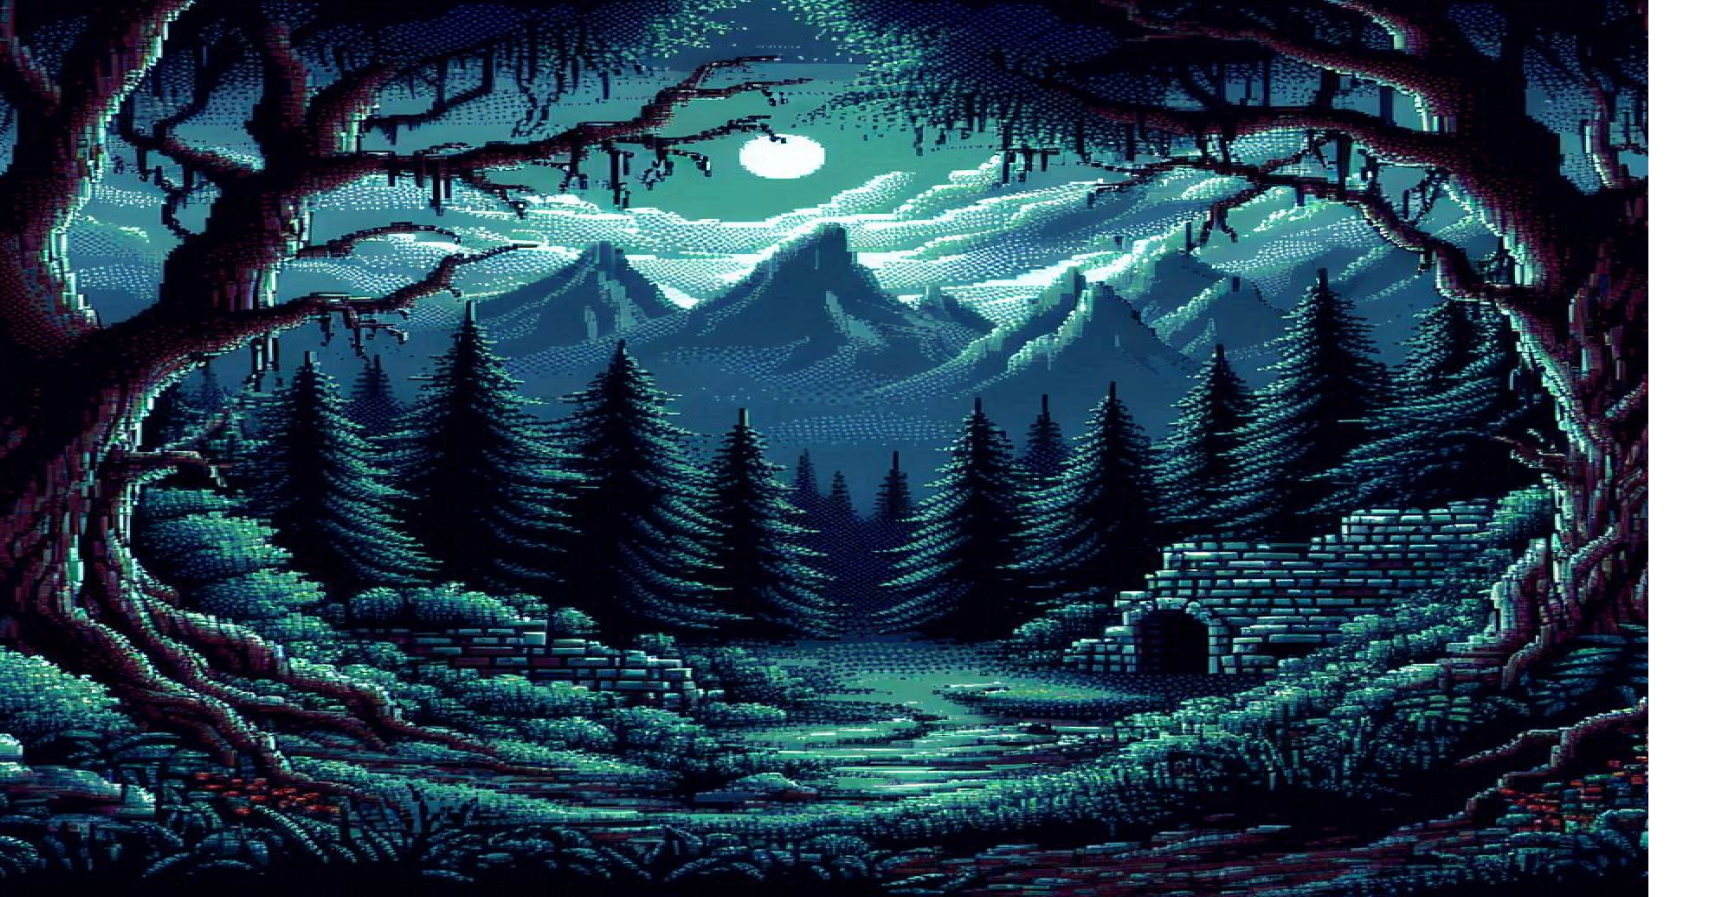
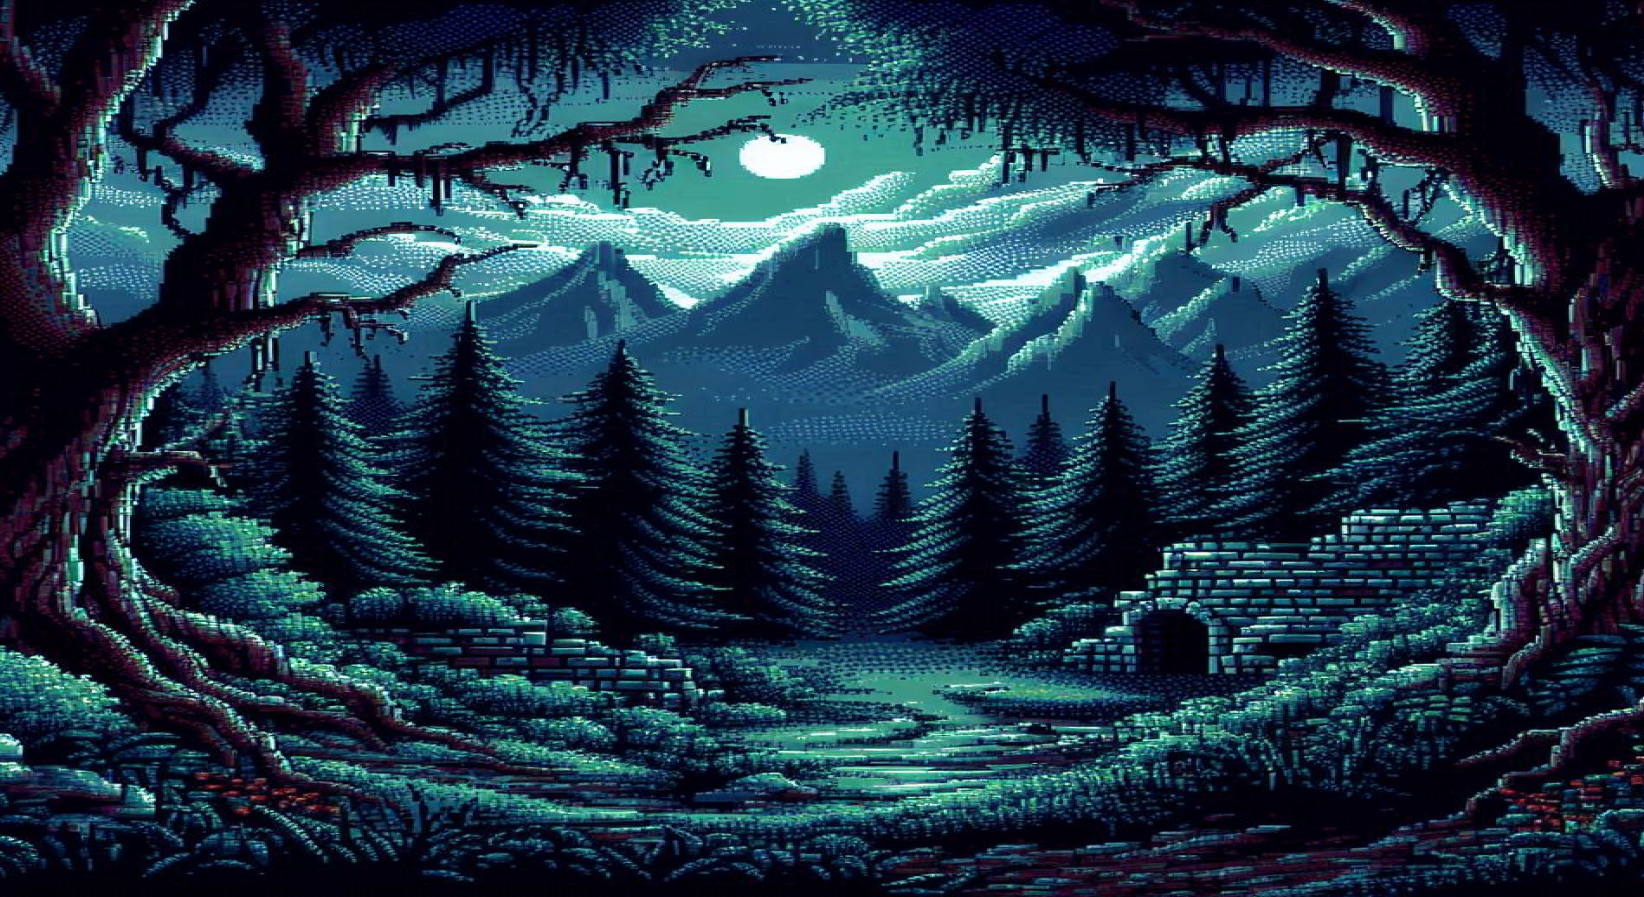
kuvat css

diff --git a/tc-dungeonhelper/src/app/enctable/enctable.component.css b/tc-dungeonhelper/src/app/enctable/enctable.component.css
@@ -1,9 +1,11 @@
+@import "@angular/material/prebuilt-themes/magenta-violet.css";
+
 .roll {
   background: url("/assets/Roll_dungeon.png") no-repeat center center;
   background-size: contain;
   border: none;
-  width: 120px;
-  height: 120px;
+  width: 150px;
+  height: 150px;
   cursor: pointer;
 }
 
@@ -69,9 +71,11 @@
 
 /* Modal styles */
 .modal {
+  background-color: #c5231d;
   display: flex;
   flex-direction: column;
-  margin-left: 10px; 
+
+  padding: 10px;
 }
 
 .weight-buttons button {
@@ -84,67 +88,30 @@
   background-color: #C5231D;
   color: black;
 }
-
-
-
-.item-number,
-.item-name {
-  flex: 1;
-  text-align: left;
-}
-.item-wight,
-.item-percent{
-color: aquamarine;
-flex: 1;
-padding: 10px;
-text-align: right;
-
-}
-
-.even-item {
-  background-color: #222222;
-}
-
-.odd-item {
-  background-color: #000000;
+.button-container {
+  display: flex;
   justify-content: center;
   align-items: center;
-  position: fixed;
-  z-index: 1;
-  left: 0;
-  top: 0;
-  width: 100%;
-  height: 100%;
-  overflow: auto;
-  background-color: rgba(0, 0, 0, 0.4);
+  gap: 50px;
 }
 
-/* Modal Content Box */
-.modal-content {
-  background-color: #fefefe;
-  padding: 20px;
-  border: 1px solid #888;
-  width: 40%;
-  box-shadow: 0 4px 8px rgba(0, 0, 0, 0.2);
-  border-radius: 10px;
+.dice-container {
+  display: flex;
+  flex-direction: column; /* Arrange button and text vertically */
+  align-items: center;    /* Center the button and text */
 }
 
-/* Close Button */
-.close {
-  color: #aaa;
-  float: right;
-  font-size: 28px;
-  font-weight: bold;
+.noppa {
+  background: url(../../../public/assets/noppa-ikoni-tyhja.png) no-repeat center center;
+  background-size: contain;
+  border: none;
+  width: 70px;
+  height: 70px;
 }
 
-.close:hover,
-.close:focus {
-  color: #000;
-  text-decoration: none;
-  cursor: pointer;
-}
-
-.encounter-item:hover {
-  border-bottom: groove 5px #C5231D;
+p {
   
+
+  font-size: 20px;
+  text-align: center;
 }

diff --git a/tc-dungeonhelper/src/app/enctable/enctable.component.html b/tc-dungeonhelper/src/app/enctable/enctable.component.html
@@ -1,7 +1,7 @@
 <!--Näytetään encounterit jos filteredEncounters onnistuu-->
 <div *ngIf="filteredEncounters"></div>
 <!--Muokkaus painike, sitä kun painetaan pystyy muokkaamaan nimeä, kuvausta, painoarvoja. Kun painiketta ei ole vielä painettu, näyttää "Edit", painaessa muuttuu "Quit editing"iksi-->
-<button class="edit" (click)="toggleEditMode()">{{ isEditing ? 'Quit editing' : 'Edit' }}</button>
+
 <!--Näytetään biomekohtaiset encounterit-->
 <h3>{{ filteredEncounters.biome }}</h3>
 <div class="encounter-container">
@@ -37,12 +37,24 @@
 
   </div>
 
-  <div>
-    <button [disabled]="isEditing" class="roll" (click)="rollTable()"></button>
+  <div class="button-container">
+    <div class="dice-container">
+      <button class="noppa" (click)="toggleEditMode()"></button>
+      <p>{{ isEditing ? 'Quit editing' : 'edit' }}</p>
+    </div>
+  
+    <div class="dice-container">
+      <button [disabled]="isEditing" class="roll" (click)="rollTable()"></button>
+    </div>
+  
+    <div class="dice-container">
+      <button class="noppa" [disabled]="isEditing" (click)="openAddEncounterModal()"></button>
+      <p>Add New</p>
+    </div>
   </div>
 
   <!-- Button to open the modal -->
-  <button [disabled]="isEditing" (click)="openAddEncounterModal()">Add New Encounter</button>
+
 
   <!-- The Modal -->
   <div class="modal" *ngIf="showAddEncounterModal">

diff --git a/tc-dungeonhelper/src/app/app.routes.ts b/tc-dungeonhelper/src/app/app.routes.ts
@@ -1,18 +1,17 @@
 import { Routes } from '@angular/router';
 
-import { DashboardComponent } from './dashboard/dashboard.component';
+
 
 import { EnctableComponent } from './enctable/enctable.component';
 import { RetablesComponent } from './retables/retables.component';
 
 import { MerchantsComponent } from './merchants/merchants.component';
+import { AppComponent } from './app.component';
 
 export const routes: Routes = [
   { path: '', redirectTo: '/app', pathMatch: 'full' },
-  { path: 'app', component: DashboardComponent },
-  { path: 'retables', component: RetablesComponent },
 
-  { path: 'dashboard', component: DashboardComponent },
+  { path: 'retables', component: RetablesComponent },
 
   { path: 'biome/:biome', component: EnctableComponent },
 

diff --git a/tc-dungeonhelper/src/app/navbar/navbar.component.ts b/tc-dungeonhelper/src/app/navbar/navbar.component.ts
@@ -2,13 +2,12 @@ import { Component } from '@angular/core';
 import { RouterModule, RouterOutlet } from '@angular/router';
 import { RetablesComponent } from '../retables/retables.component';
 import { MerchantsComponent } from '../merchants/merchants.component';
-import { DashboardComponent } from '../dashboard/dashboard.component';
 import { MatButtonModule } from '@angular/material/button';
 
 @Component({
   selector: 'app-navbar',
   standalone: true,
-  imports: [RouterOutlet, RetablesComponent, RouterModule,MerchantsComponent, DashboardComponent, MatButtonModule],
+  imports: [RouterOutlet, RetablesComponent, RouterModule,MerchantsComponent, MatButtonModule],
   templateUrl: './navbar.component.html',
   styleUrl: './navbar.component.css',
 })

diff --git a/tc-dungeonhelper/src/app/enctable/enctable.component.ts b/tc-dungeonhelper/src/app/enctable/enctable.component.ts
@@ -16,10 +16,12 @@ import { EncounterModalComponent } from '../encounter-modal/encounter-modal.comp
 import { filter, sample } from 'lodash';
 import { Location } from '@angular/common';
 import { FormsModule } from '@angular/forms';
+import { MatButton, MatButtonModule } from '@angular/material/button';
+
 @Component({
   selector: 'app-enctable',
   standalone: true,
-  imports: [NgFor, CommonModule, RouterModule, FormsModule],
+  imports: [NgFor, CommonModule, RouterModule, FormsModule, MatButton],
   templateUrl: './enctable.component.html',
   styleUrl: './enctable.component.css',
 })

diff --git a/tc-dungeonhelper/src/app/app.component.ts b/tc-dungeonhelper/src/app/app.component.ts
@@ -1,12 +1,12 @@
 import { Component } from '@angular/core';
 import { RouterOutlet, RouterModule } from '@angular/router';
 import { NavbarComponent } from './navbar/navbar.component';
-import { DashboardComponent } from './dashboard/dashboard.component';
+
 
 @Component({
   selector: 'app-root',
   standalone: true,
-  imports: [RouterOutlet, RouterModule, NavbarComponent, DashboardComponent],
+  imports: [RouterOutlet, RouterModule, NavbarComponent],
   templateUrl: './app.component.html',
   styleUrl: './app.component.css',
 })

diff --git a/tc-dungeonhelper/src/app/navbar/navbar.component.css b/tc-dungeonhelper/src/app/navbar/navbar.component.css
@@ -4,16 +4,13 @@ nav {
     background-color: rgb(0, 0, 0);
     padding: 10px;
     position: static;
-    width: 100%;
     top: 0;
     left: 0;
     display: flex;
     justify-content: center;
     z-index: 1000;
   }
-  .tausta{
-    background:url(../../../public/assets/background_dungeon.png)
-  }
+
   .nav-container {
     display: flex;
     align-items: center;

diff --git a/tc-dungeonhelper/src/app/app.component.css b/tc-dungeonhelper/src/app/app.component.css
@@ -5,13 +5,6 @@
     height: 100%;
     text-align: center;
     background: url('/assets/background_dungeon.png') no-repeat center center;
-    background-size: cover;
-    width: 105%;
-
-
+    background-size: 100% 100%;
+    
   }
-  
-  a {
-    color: white;
-  }
-  

diff --git a/tc-dungeonhelper/src/app/encounter-modal/encounter-modal.component.css b/tc-dungeonhelper/src/app/encounter-modal/encounter-modal.component.css
@@ -1,6 +1,4 @@
-p {
-  color: #fff;
-}
+
 
 mat-dialog-container {
   background-color: #333;
@@ -17,7 +15,7 @@ h1[mat-dialog-title] {
 }
 
 mat-dialog-content {
-  color: #fff;
+  
 
   padding: 30px;
 }

diff --git a/tc-dungeonhelper/src/app/app.component.html b/tc-dungeonhelper/src/app/app.component.html
@@ -1,8 +1,5 @@
 <app-navbar></app-navbar>
 
 <div class="main-content">
-  <nav>
-    <app-dashboard></app-dashboard>
-  </nav>
   <router-outlet></router-outlet>
 </div>
